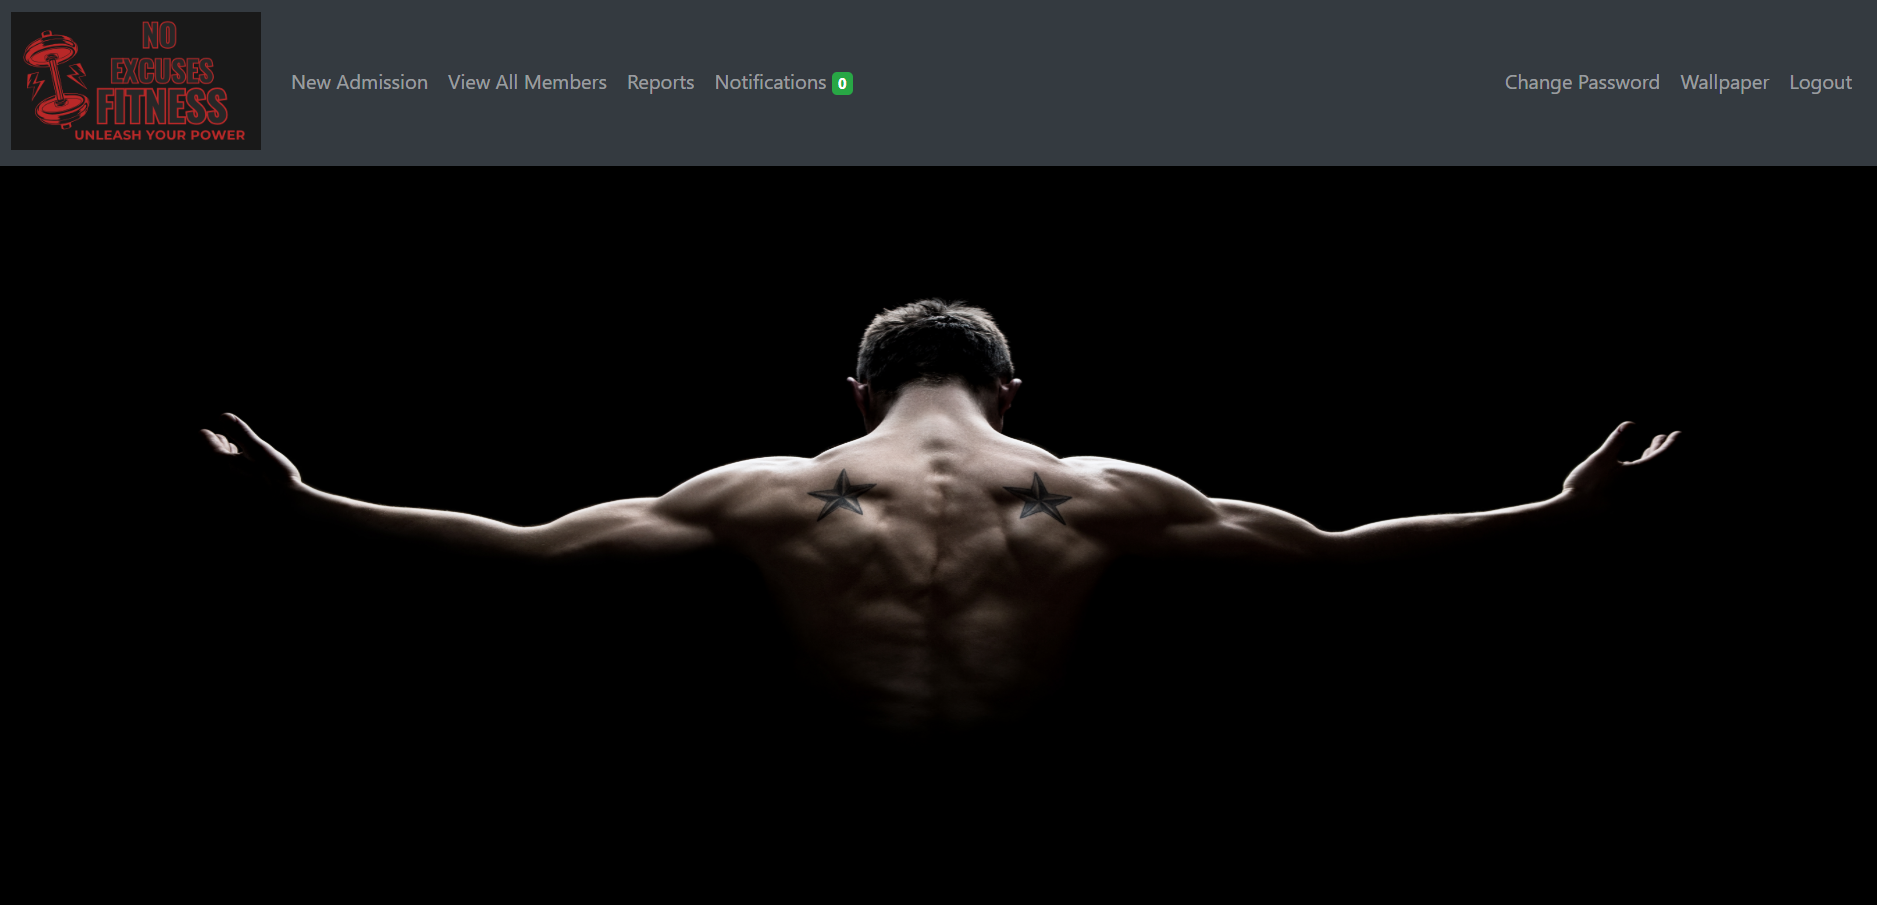
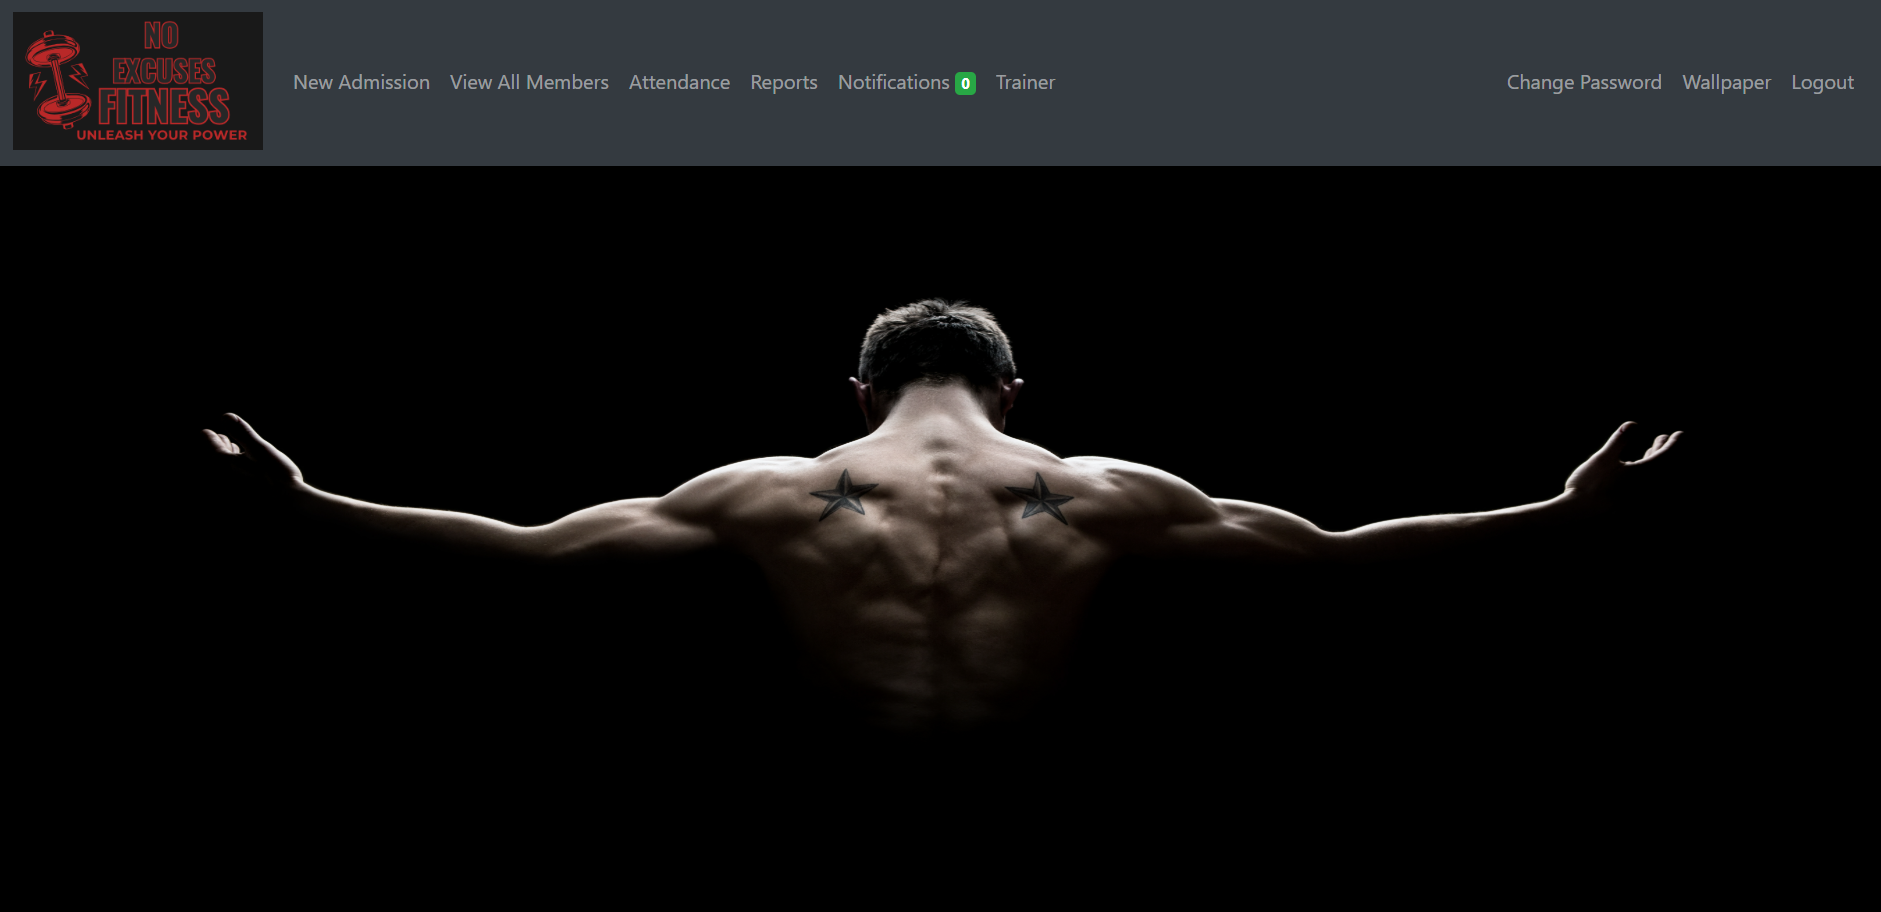
Updated README file

diff --git a/README.md b/README.md
@@ -7,8 +7,11 @@ A simple gym member manager to keep a track of all payments and members
 ![Dashboard](images/dashboard.png)
 ![New Admission](images/new_addmission.png)
 ![View All Members](images/view_all_members.png)
+![Member Attendance](images/attendance.png)
 ![Generate Reports](images/reports.png)
 ![Notifications](images/notifications.png)
+![Trainer](images/trainer.png)
+![Edit & Delete Trainer](images/edit_trainer.png)
 ![Change Password](images/change_password.png)
 ![Change Wallpaper](images/change_wallpaper.png)
 
